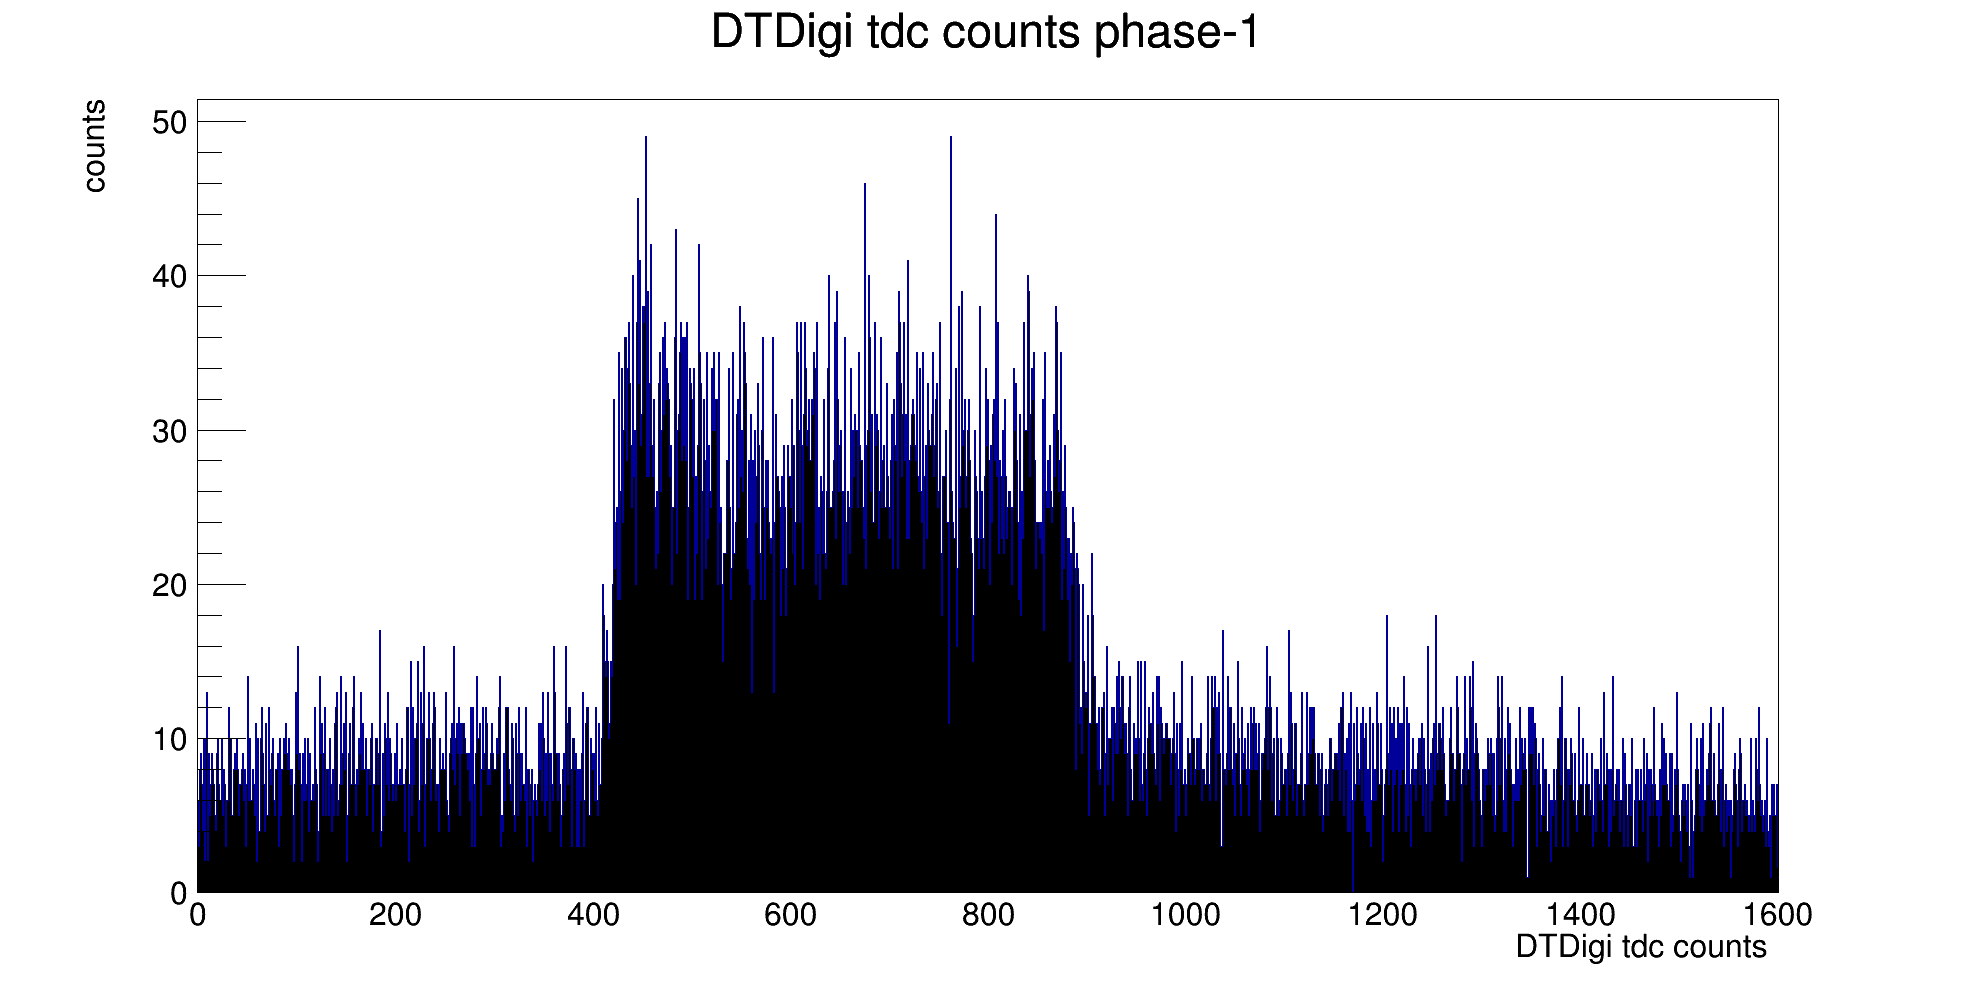
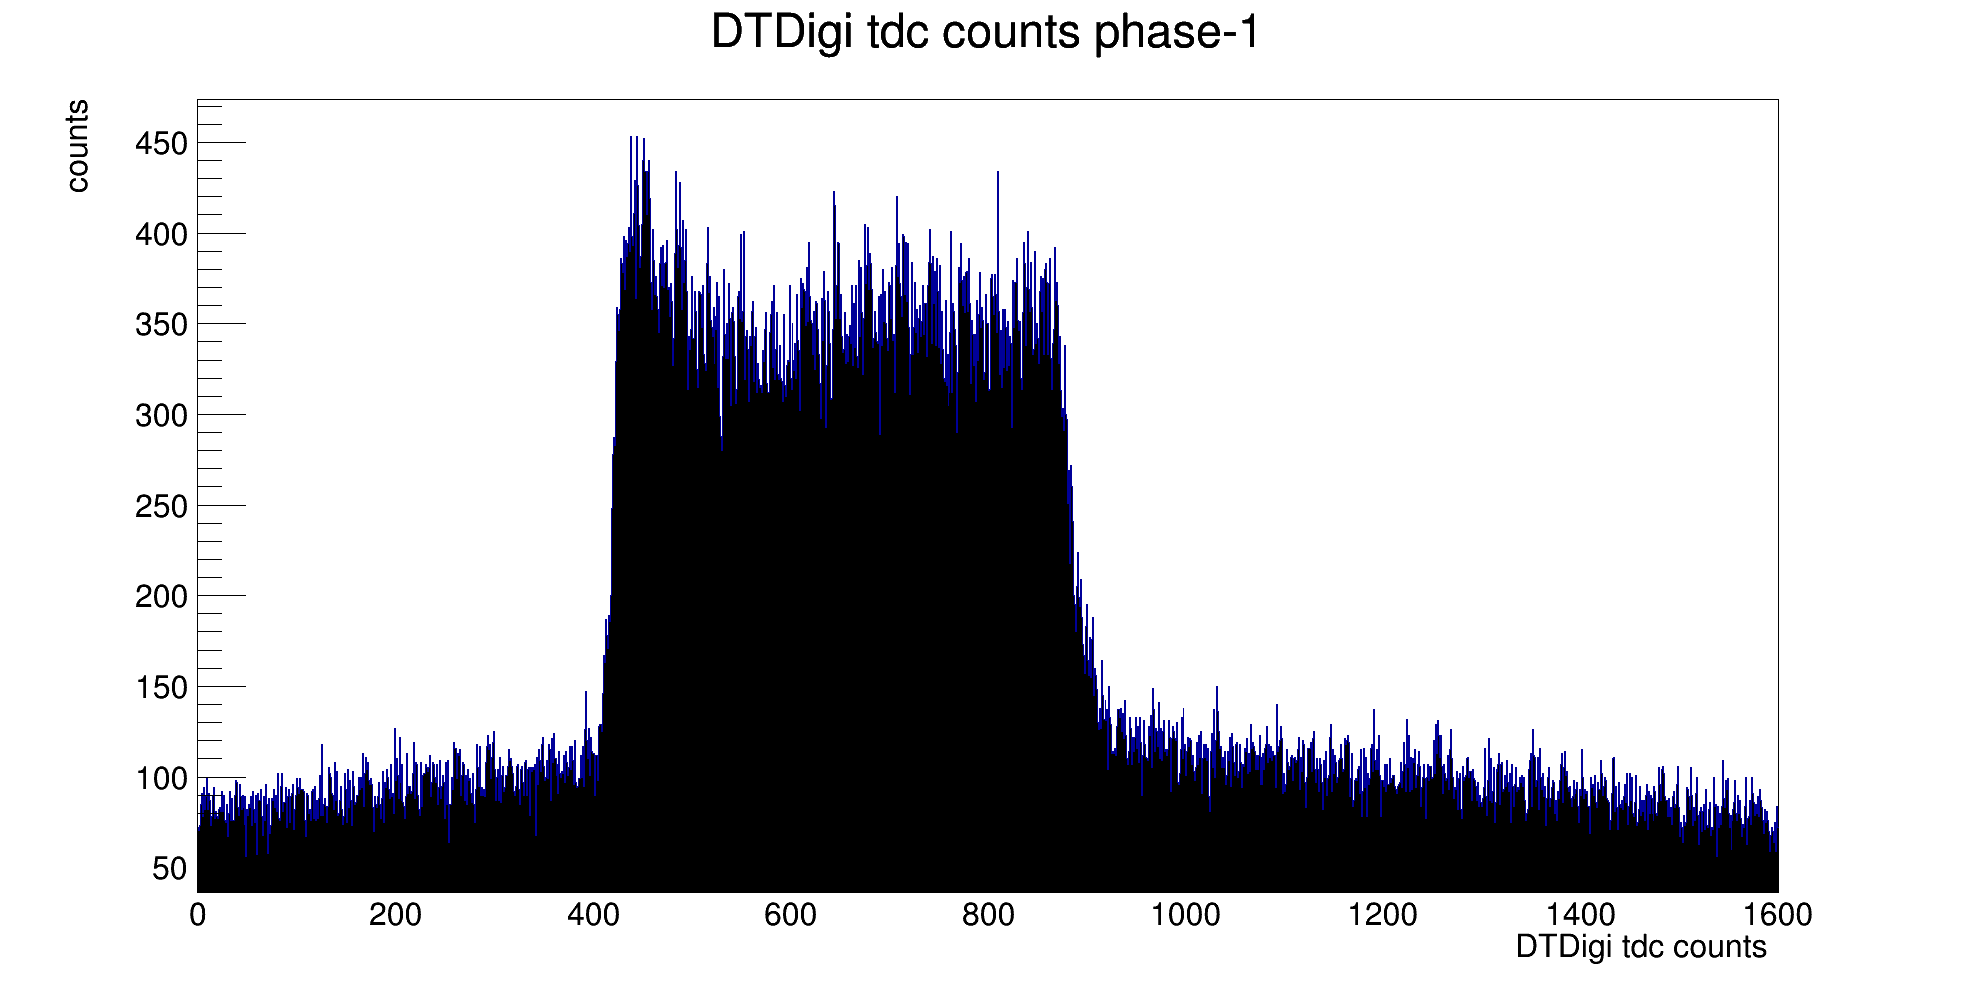
fixing resolution

diff --git a/html/index.html b/html/index.html
@@ -98,9 +98,7 @@ DT-Phase2
 	  </a>
 	</td>
       </tr>
-      
-      
-      
+         
       <tr>
 	<td>
 	  Phase-2->
@@ -128,6 +126,41 @@ DT-Phase2
       </tr>
     </table>
 
+     <font size="4">T0</font>
+    <table width="20%" border="1" cellpadding="0" cellspacing="0">
+      <tr>
+	<td>
+	  Phase-1->
+	</td>
+	<td align="center">
+	  <a href='./allT0histo.png'>
+	    <img width="1600" border='0' src='./allT0histo.png'>
+	  </a>
+	</td>
+	<td align="center">
+	  <a href='./wh0_se6_st1_T0histo.png'>
+	    <img width="1600" border='0' src='./wh0_se6_st1_T0histo.png'>
+	  </a>
+	</td>
+      </tr>
+         
+      <tr>
+	<td>
+	  Phase-2->
+	</td>
+	<td align="center">
+	  <a href='./allT0Phase2histo.png'>
+	    <img width="1600" border='0' src='./allT0Phase2histo.png'>
+	  </a>
+	</td>
+	<td align="center">
+	  <a href='./wh0_se6_st1_T0Phase2histo.png'>
+	    <img width="1600" border='0' src='./wh0_se6_st1_T0Phase2histo.png'>
+	  </a>
+	</td>
+      </tr>
+    </table>
+
     <font size="4">4D segments</font>
     <table width="20%" border="1" cellpadding="0" cellspacing="0">
       <tr>
@@ -142,7 +175,6 @@ DT-Phase2
 	    <img width="1600" border='0' src='./wh0_se6_st1_segment_x.png'>
 	  </a>
 	</td>
-
       </tr>
       
       <tr>
@@ -158,6 +190,21 @@ DT-Phase2
 	  </a>
 	</td>
       </tr>
+
+      <tr>
+	<td align="center">
+	  <a href='./wh0_se6_st1_segment_vs_jm_T0.png'>
+	    <img width="1600" border='0' src='./wh0_se6_st1_segment_vs_jm_T0.png'>
+	  </a>
+	</td>
+	
+	<td align="center">
+	  <a href='./wh0_se6_st1_segment_vs_jm_x.png'>
+	    <img width="1600" border='0' src='./wh0_se6_st1_segment_vs_jm_x.png'>
+	  </a>
+	</td>
+      </tr>
+
     </table>
 
     

diff --git a/src/DTTrigPhase2Prod.cc b/src/DTTrigPhase2Prod.cc
@@ -155,10 +155,16 @@ void DTTrigPhase2Prod::beginRun(edm::Run const& iRun, const edm::EventSetup& iEv
     wh0_se6_st1_sl1or3_TIMEhisto = new TH1F("wh0_se6_st1_sl1or3_TIMEhisto","wh0_se6_st1_sl1or3_TIMEhisto",1275,-0.5,1274.5);
     wh0_se6_st1_sl1_TIMEhisto = new TH1F("wh0_se6_st1_sl1_TIMEhisto","wh0_se6_st1_sl1_TIMEhisto",1275,-0.5,1274.5);
     wh0_se6_st1_sl3_TIMEhisto = new TH1F("wh0_se6_st1_sl3_TIMEhisto","wh0_se6_st1_sl3_TIMEhisto",1275,-0.5,1274.5);
-    allTIMEPhase2histo = new TH1F("allTIMEPhase2histo","allTIMEPhase2histo",89076,-0.5,89075.5);
-    wh0_se6_st1_sl1or3_TIMEPhase2histo = new TH1F("wh0_se6_st1_sl1or3_TIMEPhase2histo","wh0_se6_st1_sl1or3_TIMEPhase2histo",89076,-0.5,89075.5);
-    wh0_se6_st1_sl1_TIMEPhase2histo = new TH1F("wh0_se6_st1_sl1_TIMEPhase2histo","wh0_se6_st1_sl1_TIMEPhase2histo",89076,-0.5,89075.5);
-    wh0_se6_st1_sl3_TIMEPhase2histo = new TH1F("wh0_se6_st1_sl3_TIMEPhase2histo","wh0_se6_st1_sl3_TIMEPhase2histo",89076,-0.5,89075.5);
+    allTIMEPhase2histo = new TH1F("allTIMEPhase2histo","allTIMEPhase2histo",8907,-0.5,89075.5);
+    wh0_se6_st1_sl1or3_TIMEPhase2histo = new TH1F("wh0_se6_st1_sl1or3_TIMEPhase2histo","wh0_se6_st1_sl1or3_TIMEPhase2histo",8907,-0.5,89075.5);
+    wh0_se6_st1_sl1_TIMEPhase2histo = new TH1F("wh0_se6_st1_sl1_TIMEPhase2histo","wh0_se6_st1_sl1_TIMEPhase2histo",8907,-0.5,89075.5);
+    wh0_se6_st1_sl3_TIMEPhase2histo = new TH1F("wh0_se6_st1_sl3_TIMEPhase2histo","wh0_se6_st1_sl3_TIMEPhase2histo",8907,-0.5,89075.5);
+    
+    //T0
+    //allT0histo = new TH1F("allT0histo","allT0histo",1275,-0.5,1274.5);
+    //wh0_se6_st1_T0histo = new TH1F("wh0_se6_st1_T0histo","wh0_se6_st1_T0histo",1275,-0.5,1274.5);
+    //allT0Phase2histo = new TH1F("allT0Phase2histo","allT0Phase2histo",8907,-0.5,89075.5);
+    //wh0_se6_st1_T0Phase2histo = new TH1F("wh0_se6_st1_sl3_T0Phase2histo","wh0_se6_st1_T0Phase2histo",8907,-0.5,89075.5);
     
     //2D
     wh0_se6_st1_segment_x = new TH1F("wh0_se6_st1_segment_x","wh0_se6_st1_segment_x",100,-100,100);
@@ -168,6 +174,7 @@ void DTTrigPhase2Prod::beginRun(edm::Run const& iRun, const edm::EventSetup& iEv
     wh0_se6_st1_segment_vs_jm_x = new TH2F("wh0_se6_st1_segment_vs_jm_x","wh0_se6_st1_segment_vs_jm_x",100,-100,100,100,100,100);
     wh0_se6_st1_segment_vs_jm_tanPhi = new TH2F("wh0_se6_st1_segment_vs_jm_tanPhi","wh0_se6_st1_segment_vs_jm_tanPhi",100,-1.,1.,100,-1.,1.);
     wh0_se6_st1_segment_vs_jm_BX= new TH2F("wh0_se6_st1_segment_vs_jm_BX","wh0_se6_st1_segment_vs_jm_BX",201,-100,100,201,-100,100);
+    //wh0_se6_st1_segment_vs_jm_T0= new TH2F("wh0_se6_st1_segment_vs_jm_T0","wh0_se6_st1_segment_vs_jm_T0",201,-100,100,201,-100,100);
     
     wirevslayer     = new TH2F("wirevslayer","wirevslayer",50,0.5,50.5,8,0.5,8.5);
     wirevslayerzTDC = new TH2F("wirevslayerzTDC","wirevslayerzTDC",50*1600,0.5,50+0.5,8,0.5,8.5);
@@ -198,35 +205,42 @@ void DTTrigPhase2Prod::produce(Event & iEvent, const EventSetup& iEventSetup){
   //GlobalPoint GlobalPointExtrapolated = DTSurface.toGlobal(LocalPoint(0,0,0));
   //std::cout<<GlobalPointExtrapolated.x()<<std::endl;
   
-  float segment_x=-1;
-  float segment_tanPhi=-1;
-  float segment_BX=-1;
+  double segment_x=-1;
+  double segment_tanPhi=-1;
+  double segment_BX=-1;
+  
+  //double segment_t0=-1;
+  //double segment_t0Phase2=-1;
   
   DTRecSegment4DCollection::const_iterator segment;
   for (segment = all4DSegments->begin();segment!=all4DSegments->end(); ++segment){
       DTSegmentCounter[segment->chamberId()]++;
-      if(segment->chamberId()==ciemat_chamber_ID  && segment->dimension()==4 && (segment->phiSegment()->recHits()).size()==8 
-	 && segment->hasPhi() && segment->hasZed()){
-	  
-	  
-	  LocalPoint segmentPosition= segment->localPosition();
-	  LocalVector segmentDirection=segment->localDirection();
+      if(segment->hasPhi()){
+	  //segment_t0=segment->phiSegment()->t0();
+	  //segment_t0Phase2=segment_t0+25*iEvent.eventAuxiliary().bunchCrossing()+325;
+	  //allT0histo->Fill(segment_t0);
+	  //allT0Phase2histo->Fill(segment_t0Phase2);
+	  if(segment->chamberId()==ciemat_chamber_ID  && segment->dimension()==4 && (segment->phiSegment()->recHits()).size()==8 && segment->hasZed()){
+	      LocalPoint segmentPosition= segment->localPosition();
+	      LocalVector segmentDirection=segment->localDirection();
 
-	  segment_x=segmentPosition.x(); 
-	  wh0_se6_st1_segment_x->Fill(segment_x);
+	      //if(segmentDirection.z()!=0)//a priori it would never happen in this scope
+	      double dx=segmentDirection.x();
+	      // double dy=segmentDirection.basicVector().y(); 
+	      double dz=segmentDirection.z(); 
 	  
-	  //if(segmentDirection.z()!=0)//a priori it would never happen in this scope
-	  double dx=segmentDirection.x();
-	  // double dy=segmentDirection.basicVector().y(); 
-	  double dz=segmentDirection.z(); 
+	      segment_tanPhi=(-1)*(dx/dz);
+	      wh0_se6_st1_segment_tanPhi->Fill(segment_tanPhi);
 	  
-	  segment_tanPhi=dx/sqrt(dx*dx+dz*dz);
+	      segment_BX = iEvent.eventAuxiliary().bunchCrossing();
 	  
-	  wh0_se6_st1_segment_tanPhi->Fill(segment_tanPhi);
-	  
-	  segment_BX = iEvent.eventAuxiliary().bunchCrossing();//this may need to be corrected by the t0/25ns or something like that!
-
-
+	      segment_x=segmentPosition.x()-11.75*segment_tanPhi; 
+	      wh0_se6_st1_segment_x->Fill(segment_x);
+	      
+	      //wh0_se6_st1_T0histo->Fill(segment_t0);
+	      //wh0_se6_st1_T0Phase2histo->Fill(segment_t0Phase2);	      
+	     
+	  }
       }
   }
   if(DTSegmentCounter[ciemat_chamber_ID]==1 && segment_tanPhi!=-1){
@@ -273,7 +287,7 @@ void DTTrigPhase2Prod::produce(Event & iEvent, const EventSetup& iEventSetup){
 		  wh0_se6_st1_sl1or3_TIMEPhase2histo->Fill(digiTIMEPhase2);  
 
 		  wirevslayer->Fill(wire,(superlayer-1)*2+layer);
-		  wirevslayerzTDC->Fill(wire-0.5+float(digiTDC)/1600.,(superlayer-1)*2+layer);
+		  wirevslayerzTDC->Fill(wire-0.5+double(digiTDC)/1600.,(superlayer-1)*2+layer);
 	  
 		  if(superlayer==1){
 		      wh0_se6_st1_sl1_TDChisto->Fill(digiTDC);wh0_se6_st1_sl1_TDCPhase2histo->Fill(digiTDCPhase2);
@@ -348,11 +362,12 @@ void DTTrigPhase2Prod::produce(Event & iEvent, const EventSetup& iEventSetup){
 	      wh0_se6_st1_segment_vs_jm_x->Fill(segment_x,ptrMuonPath->getHorizPos());
 	      wh0_se6_st1_segment_vs_jm_tanPhi->Fill(segment_tanPhi,ptrMuonPath->getTanPhi());
 	      wh0_se6_st1_segment_vs_jm_BX->Fill(segment_BX,ptrMuonPath->getBxTimeValue());
+	      //wh0_se6_st1_segment_vs_jm_T0->Fill(segment_t0Phase2,ptrMuonPath->getBxTimeValue());
 	      
-	      delete ptrMuonPath;
 	  }
-	  
+	  //delete ptrMuonPath;
       } //we have a perfeect digi set   
+      //delete ptrPrimitive;
   } //we have a perfect segment in the interesting chamber
   
   /*

diff --git a/interface/DTTrigPhase2Prod.h b/interface/DTTrigPhase2Prod.h
@@ -76,6 +76,12 @@ class DTTrigPhase2Prod: public edm::EDProducer{
     TH1F * wh0_se6_st1_sl1_TIMEPhase2histo;
     TH1F * wh0_se6_st1_sl3_TIMEPhase2histo;
 
+    //TH1F * allT0histo;
+    //TH1F * wh0_se6_st1_T0histo;
+    //TH1F * allT0Phase2histo;
+    //TH1F * wh0_se6_st1_T0Phase2histo;
+
+
     TH1F * wh0_se6_st1_segment_x;
     TH1F * wh0_se6_st1_segment_tanPhi;
     TH1F * wh0_se6_st1_segment_BX;
@@ -83,6 +89,7 @@ class DTTrigPhase2Prod: public edm::EDProducer{
     TH2F * wh0_se6_st1_segment_vs_jm_x;
     TH2F * wh0_se6_st1_segment_vs_jm_tanPhi;
     TH2F * wh0_se6_st1_segment_vs_jm_BX;
+    // TH2F * wh0_se6_st1_segment_vs_jm_T0;
 
     TH2F * wirevslayer;
     TH2F * wirevslayerzTDC;

diff --git a/test/PrimitivesPhase2Prod_cfg.py b/test/PrimitivesPhase2Prod_cfg.py
@@ -41,7 +41,7 @@ process.source = cms.Source("PoolSource",
 
 process.maxEvents = cms.untracked.PSet(
 #    input = cms.untracked.int32(-1)
-    input = cms.untracked.int32(42000)
+    input = cms.untracked.int32(500000)
 )
 
 process.out = cms.OutputModule("PoolOutputModule",
